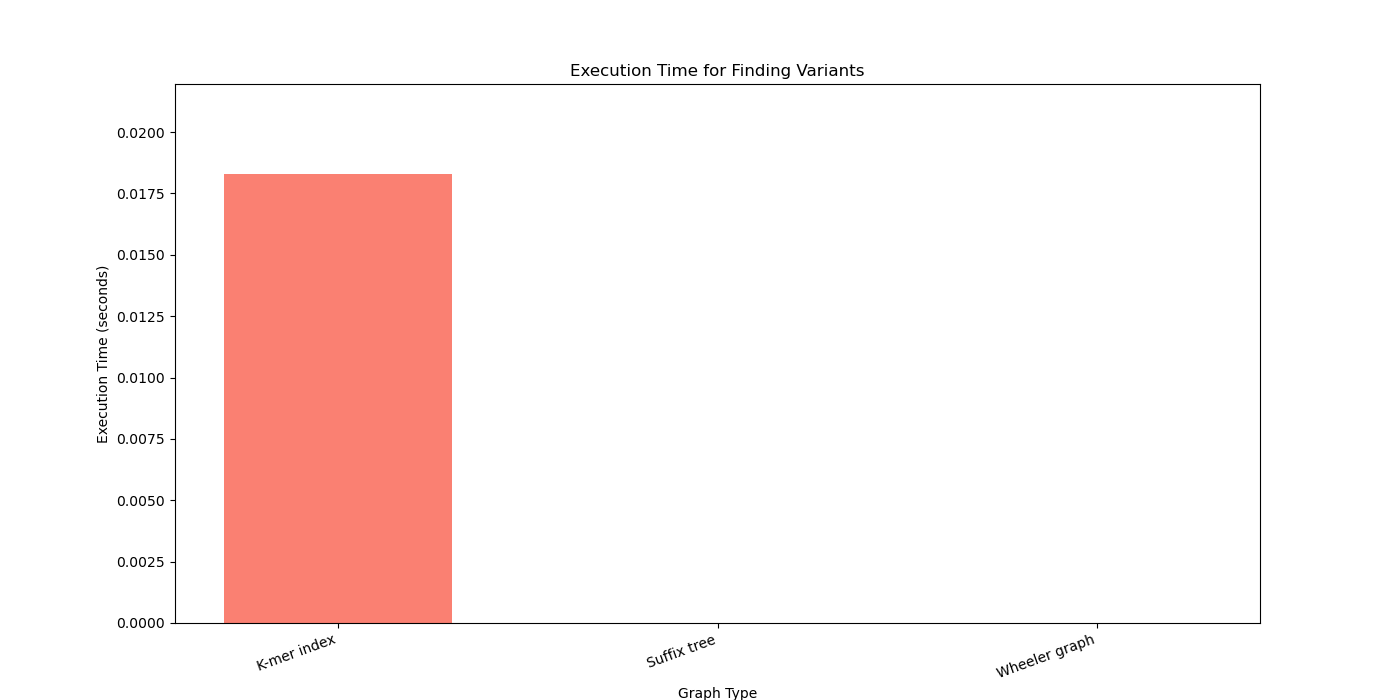
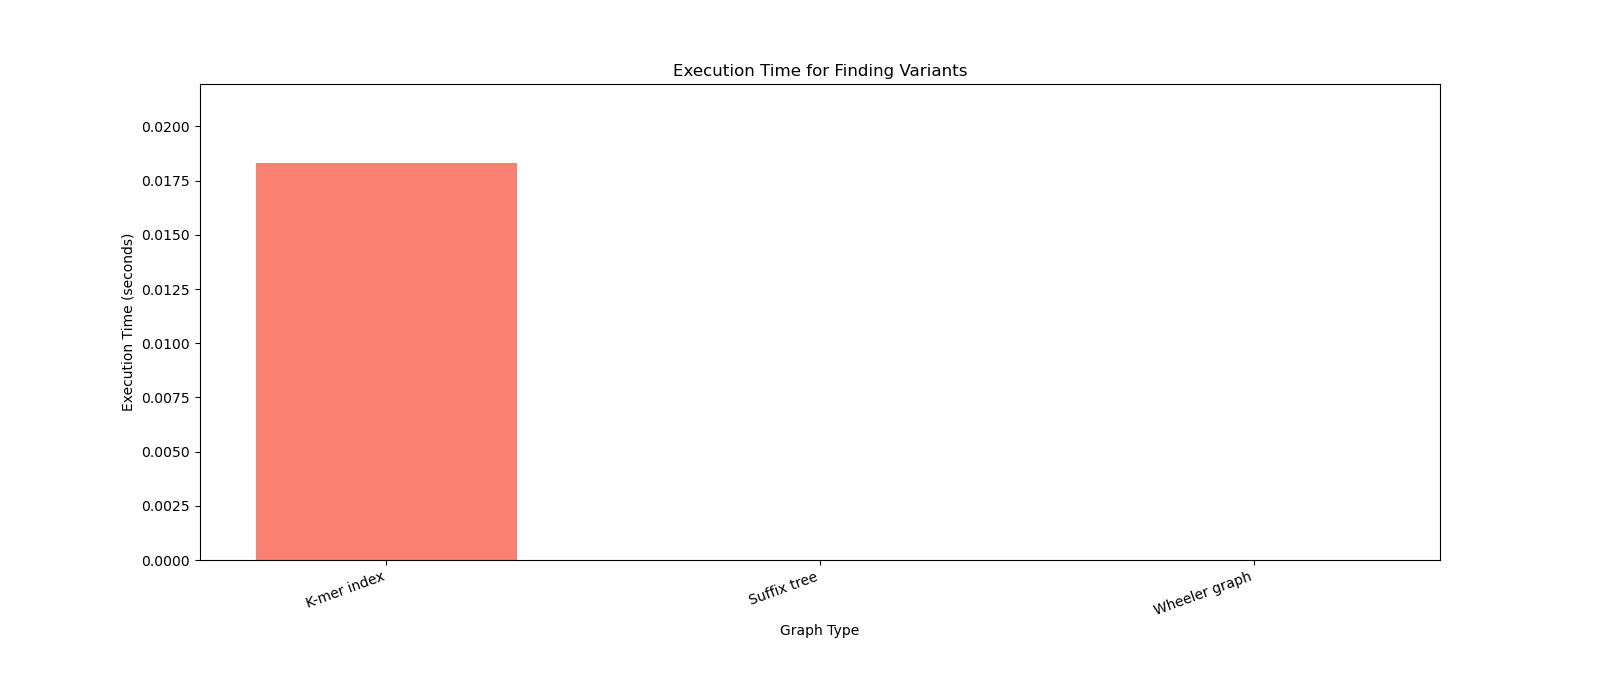
added spacing

diff --git a/benchmark_graphs.py b/benchmark_graphs.py
@@ -23,16 +23,18 @@ plt.ylabel("Memory Usage (MB)")
 plt.xlabel("Graph Type")
 plt.xticks(rotation=20, ha='right')  
 plt.title("Memory Usage for Finding Variants")
+plt.subplots_adjust(bottom=0.2)  # Add more white space at the bottom
 plt.ylim(0, max(memory_usage_plot) * 1.2)
 plt.savefig("memory_usage_graph.png") 
 plt.close() 
 
-plt.figure(figsize=(14, 7))
+plt.figure(figsize=(16, 7))
 plt.bar(structures, execution_time_plot, color='salmon', width=bar_width)
 plt.ylabel("Execution Time (seconds)")
 plt.xlabel("Graph Type")
 plt.xticks(rotation=20, ha='right') 
 plt.title("Execution Time for Finding Variants")
+plt.subplots_adjust(bottom=0.2)  # Add more white space at the bottom
 plt.ylim(0, max(execution_time_plot) * 1.2)
 plt.savefig("execution_time_graph.png")  
 plt.close() 
